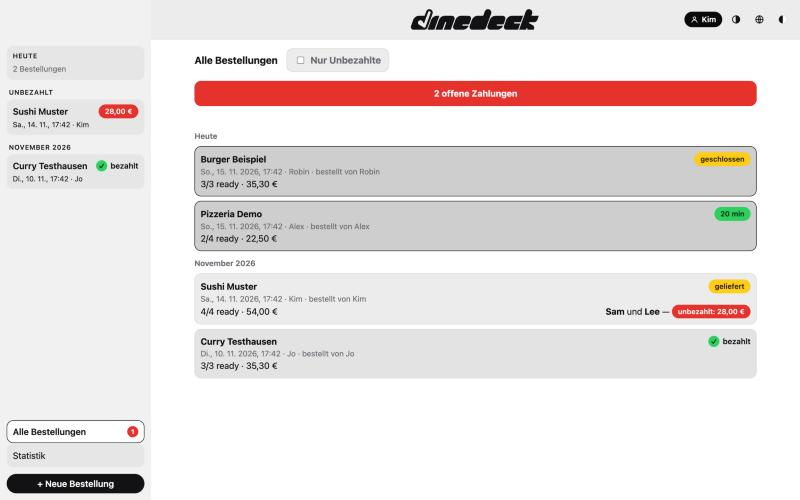
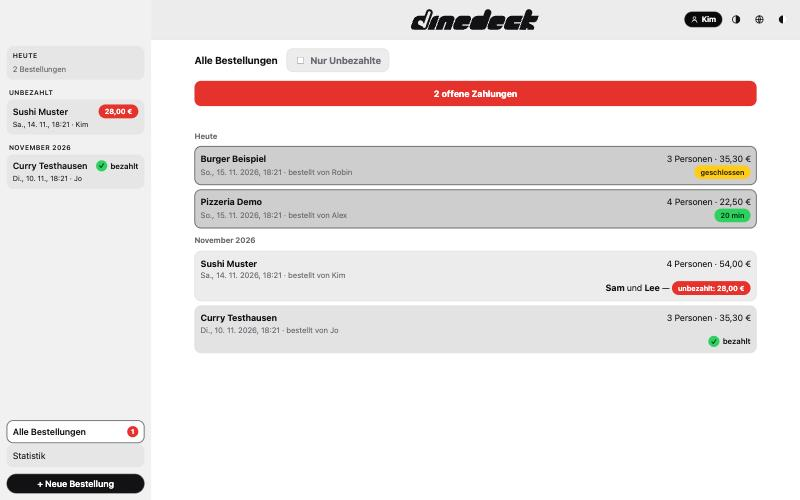
Alle Bestellungen: Karten mit Personen und Summe oben rechts, ab geliefert nur die Zahlung, geliefert grün, Zahlung unten; README und Bildschirmfoto

diff --git a/public/views/home.js b/public/views/home.js
@@ -11,10 +11,14 @@ const boldNames = (names) => names.flatMap((n, i) => [i === 0 ? null : i === nam
 
 export const roundItem = (r, highlight = false) => {
   const stage = roundStage(r);
-  const status = stage === 'alles bezahlt'
-    ? h('span', { class: 'side-paid' }, h('span', { class: 'check-circle', 'aria-hidden': 'true' }, '✓'), t('bezahlt')) // wie in der Seitenleiste
+  const paid = stage === 'alles bezahlt';
+  const payment = paid
+    ? h('span', { class: 'side-paid' }, h('span', { class: 'check-circle', 'aria-hidden': 'true' }, '✓'), t('bezahlt'))
+    : r.unpaid ? h('span', { class: 'unpaid-line' }, h('span', null, ...boldNames(r.debts_users ?? []), ' — '), h('span', { class: 'badge off' }, `${t('unbezahlt')}: ${eur(r.debts_total_cents)}`)) : null;
+  const delivered = paid || stage === 'geliefert';
+  const top = delivered && payment ? null // ab „geliefert“ zählt nur die Zahlung (unten), die Pille wäre doppelt
     : stage
-    ? h('span', { class: 'badge mid' }, t(stage))
+    ? h('span', { class: delivered ? 'badge on' : 'badge mid' }, t(stage))
     : h('span', { class: 'badge on', 'data-expires': r.expires_at }, '…');
   return h(
     'a',
@@ -22,14 +26,9 @@ export const roundItem = (r, highlight = false) => {
     h(
       'div',
       { class: 'card pad-4' },
-      h('div', { class: 'row between' }, h('strong', null, r.restaurant), status),
-      h('div', { class: 'muted' }, `${fmtDate(r.created_at)} · ${r.creator} · ${t('bestellt von')} ${r.buyer}`),
-      h(
-        'div',
-        { class: 'row between' },
-        h('span', null, `${r.done}/${r.users} ${t('ready')} · ${eur(r.total_cents)}`),
-        r.unpaid ? h('span', { class: 'unpaid-line' }, h('span', null, ...boldNames(r.debts_users ?? []), ' — '), h('span', { class: 'badge off' }, `${t('unbezahlt')}: ${eur(r.debts_total_cents)}`)) : null
-      )
+      h('div', { class: 'row between' }, h('strong', null, r.restaurant), h('span', null, `${t('{n} Personen', { n: r.users })} · ${eur(r.total_cents)}`)), // Summe oben rechts
+      h('div', { class: 'row between' }, h('span', { class: 'muted' }, `${fmtDate(r.created_at)} · ${t('bestellt von')} ${r.buyer}`), top),
+      payment ? h('div', { class: 'row end' }, payment) : null
     )
   );
 };

diff --git a/public/side.js b/public/side.js
@@ -26,7 +26,7 @@ export function renderSide() {
     if (!r.locked) return h('span', { class: 'badge on', 'data-expires': r.expires_at }, '…');
     const stage = roundStage(r);
     if (stage === 'alles bezahlt') return h('span', { class: 'side-paid' }, h('span', { class: 'check-circle', 'aria-hidden': 'true' }, '✓'), t('bezahlt')); // Häkchen im grünen Kreis, Text wie der Name
-    return h('span', { class: 'badge mid' }, t(stage));
+    return h('span', { class: stage === 'geliefert' ? 'badge on' : 'badge mid' }, t(stage)); // geliefert grün wie in der Ablaufzeile
   };
   const item = (r) =>
     h(

diff --git a/public/i18n.js b/public/i18n.js
@@ -162,6 +162,7 @@ const EN = {
   'Einzelpreis': 'Unit price',
   'Summe': 'Total',
   'Bestellung': 'Order',
+  '{n} Personen': '{n} people',
   'Liefer- und Servicekosten': 'Delivery and service fees',
   'Lieferkosten': 'Delivery fee',
   'Gesamt': 'Grand total',

diff --git a/README.md b/README.md
@@ -23,7 +23,7 @@ Vanilla JS, no build step, no dependencies. Node ≥ 22.13 (`node:sqlite`), live
 - **Phones (up to 30 em):** compact layout. The order header puts the arrow and the restaurant name on one line, followed by the buyer, with less rounding on the ends; the contact row shows "copy order list", the phone number and the web link (no "Order:" label). The pay block is one rounded button with the amount and the PayPal address (the pay link itself) with the QR code behind it (tap to enlarge); there is no copy button. The control line wraps onto two lines, tab labels are larger, and a step and its undo arrow stay together.
 - **Notification on return:** after opening the app, a centred overlay lists the open payments **from you** ("You still have to pay") and **to you** as buyer ("Open payments to you"), each as a red chip (name, amount; the same chips and header as in an order) with restaurant and date below it (time too when two orders share a day). Only earlier days; it appears once per session and state (`NOTICE.showEveryLoad` in `public/config.js` shows it on every load for testing). Close with ✕, Escape or a click beside it.
 - **Deleting an order:** only the creator or an admin, in the expanded header ("Delete order"), after a confirmation dialog. Items and payment states are deleted with it.
-- **Navigation:** sidebar ("Today" is always shown, with "no order yet" when there is none; open / unpaid / closed, live; the count of orders with unpaid items on "All orders") docked from 1280 px and as a drawer with a menu button below, the list also appears on the start page then. "All orders" can be filtered to unpaid only. Each order has its own URL (`#/r/<id>`). Orders from today show only the time.
+- **Navigation:** sidebar ("Today" is always shown, with "no order yet" when there is none; open / unpaid / closed, live; the count of orders with unpaid items on "All orders") docked from 1280 px and as a drawer with a menu button below, the list also appears on the start page then. "All orders" can be filtered to unpaid only; a card shows the restaurant, people and total at the top right, the state (open, closed, ordered) or, from delivery on, only the payment (unpaid with names, or paid). Each order has its own URL (`#/r/<id>`). Orders from today show only the time.
 - **Statistics:** top restaurant, favourite dish per restaurant, average item price and order total. No per-user statistics. Admins can export all item rows as JSON.
 - **Appearance:** light/dark/auto, colour themes, German/English.
 - **App icon:** black tile with the white dinedeck mark (`public/favicon.svg`, full-bleed `public/icon.svg` and PNGs for the home screen); `public/manifest.webmanifest` lets browsers install it as an app.
